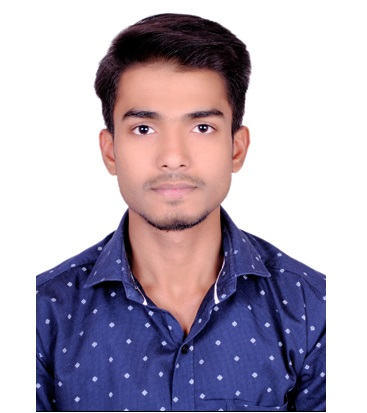
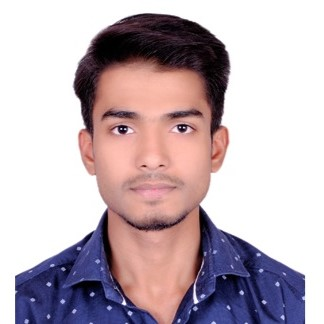
Image correction in html

diff --git a/index.html b/index.html
@@ -12,7 +12,7 @@
         <div class="left-side">
             <div class="profileBox">
                 <div class="profile-img">
-                    <img src="Img/profile.JPG" alt="Photo">
+                    <img src="profile.JPG" alt="Photo">
                 </div>
                 <h2>SHOAIB ANSARI</h2>
                 <span>🚀Web Developer</span>
